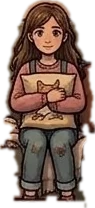
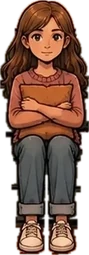
Emma sur le canapé (image ChatGPT découpée), table un peu plus en avant

diff --git a/piece.js b/piece.js
@@ -21,8 +21,8 @@ var ZONES_PIECE = [
   ["oRadio",     771, 192, 823, 234, function(){ return icone("radio"); }, "Radio", .5, function(){ return compter("radio") > 0; }],
   ["oTrophees",  172, 296, 232, 356, function(){ return "🏆"; }, "Trophées", .2, function(){ return G.trophees && G.trophees.length > 0; }],
   ["oPhoto",     247, 312, 285, 356, function(){ return icone("photo"); }, "Photo", .5, function(){ return compter("photo") > 0; }],
-  ["chapitre",   358, 633, 668, 746, function(){ return "📜"; }, "Histoire", .55], // le livre ouvert sur la table basse : le chapitre et le récit (l'atelier a sa propre pièce)
-  ["oCartes",    366, 641, 406, 669, function(){ return icone("cartes"); }, "Cartes", .5, function(){ return compter("cartes") > 0; }],
+  ["chapitre",   358, 648, 668, 781, function(){ return "📜"; }, "Histoire", .55], // le livre ouvert sur la table basse : le chapitre et le récit (l'atelier a sa propre pièce)
+  ["oCartes",    366, 676, 406, 704, function(){ return icone("cartes"); }, "Cartes", .5, function(){ return compter("cartes") > 0; }],
   ["chien",      668, 548, 858, 704, function(){ return ic("chien", "🐕"); }, "Rex", .95, function(){ return !!chien(); }]
 ];
 // Éléments posés sur la pièce selon la partie (images Gemini détourées, 2026-11-09), mêmes coordonnées que les zones
@@ -33,7 +33,7 @@ var DECOR_PIECE = [
   // Objets de confort : visibles seulement si on les a (les images de pièce n'en montrent plus)
   ["images/objet-radio.webp",  771, 192, 823, 234, function(){ return compter("radio") > 0; }],
   ["images/objet-photo.webp",  247, 312, 285, 356, function(){ return compter("photo") > 0; }],
-  ["images/objet-cartes.webp", 366, 641, 406, 669, function(){ return compter("cartes") > 0; }]
+  ["images/objet-cartes.webp", 366, 676, 406, 704, function(){ return compter("cartes") > 0; }]
 ];
 /* ---------- Les pièces de la maison, qu'on fait défiler (glisser du doigt, flèches ou points) ----------
    Chaque pièce : son image, sa taille, sa partie utile (cadre) et ses zones, en pixels de SON image. */
@@ -697,11 +697,12 @@ function dormeurLit(lit){
    (de gauche à droite : Papa, Léo, Emma, Maman). Chaque place est découpée à la silhouette, sans toucher aux coussins. */
 // Version 2 (2026-11-12) : deux images Gemini avec deux personnes espacées, silhouettes recalées chacune sur sa place ;
 // ordre de pose Léo, Papa, Emma, Maman (Papa devant le bras de Léo), puis la table basse et ses objets reposés devant eux
-// Salon sans table basse (2026-11-12, idée de Fabien) : la table est un décor reposé 60 px plus en avant et 5 % plus grande,
+// Salon sans table basse (2026-11-12, idée de Fabien) : la table est un décor reposé 95 px plus en avant et 5 % plus grande,
 // par-dessus les personnes, pour que leurs pieds restent visibles. Papa dans le fauteuil (bottes visibles), Léo et Maman
-// sur le canapé (image Gemini dessinée sur le salon sans table, sans décalage). Emma reviendra avec son image (3e place).
-var PLACES_CANAPE = { "Papa":[120, 352, 362, 717, "fauteuil-papa"], "Léo":[366, 343, 488, 628, "canape-leo"], "Maman":[578, 342, 705, 631, "canape-maman"] };
-var TABLE_SALON = ["images/personnages/table-basse-avant.webp", 348, 571, 671, 751, function(){ return true; }];
+// sur le canapé (image Gemini dessinée sur le salon sans table, sans décalage). Emma (3e place) : image ChatGPT
+// (salon redessiné), découpée le long de son contour et mise à l'échelle (255 px de haut).
+var PLACES_CANAPE = { "Papa":[120, 352, 362, 717, "fauteuil-papa"], "Léo":[366, 343, 488, 628, "canape-leo"], "Emma":[490, 375, 579, 630, "canape-emma"], "Maman":[578, 342, 705, 631, "canape-maman"] };
+var TABLE_SALON = ["images/personnages/table-basse-avant.webp", 348, 606, 671, 786, function(){ return true; }];
 function auSalon(r){
   if(!G || !G.m) return false;
   var i = G.m.findIndex(function(y){ return roleDormeur(y) === r; }), x = G.m[i];

diff --git a/site/piece.js b/site/piece.js
@@ -21,8 +21,8 @@ var ZONES_PIECE = [
   ["oRadio",     771, 192, 823, 234, function(){ return icone("radio"); }, "Radio", .5, function(){ return compter("radio") > 0; }],
   ["oTrophees",  172, 296, 232, 356, function(){ return "🏆"; }, "Trophées", .2, function(){ return G.trophees && G.trophees.length > 0; }],
   ["oPhoto",     247, 312, 285, 356, function(){ return icone("photo"); }, "Photo", .5, function(){ return compter("photo") > 0; }],
-  ["chapitre",   358, 633, 668, 746, function(){ return "📜"; }, "Histoire", .55], // le livre ouvert sur la table basse : le chapitre et le récit (l'atelier a sa propre pièce)
-  ["oCartes",    366, 641, 406, 669, function(){ return icone("cartes"); }, "Cartes", .5, function(){ return compter("cartes") > 0; }],
+  ["chapitre",   358, 648, 668, 781, function(){ return "📜"; }, "Histoire", .55], // le livre ouvert sur la table basse : le chapitre et le récit (l'atelier a sa propre pièce)
+  ["oCartes",    366, 676, 406, 704, function(){ return icone("cartes"); }, "Cartes", .5, function(){ return compter("cartes") > 0; }],
   ["chien",      668, 548, 858, 704, function(){ return ic("chien", "🐕"); }, "Rex", .95, function(){ return !!chien(); }]
 ];
 // Éléments posés sur la pièce selon la partie (images Gemini détourées, 2026-11-09), mêmes coordonnées que les zones
@@ -33,7 +33,7 @@ var DECOR_PIECE = [
   // Objets de confort : visibles seulement si on les a (les images de pièce n'en montrent plus)
   ["images/objet-radio.webp",  771, 192, 823, 234, function(){ return compter("radio") > 0; }],
   ["images/objet-photo.webp",  247, 312, 285, 356, function(){ return compter("photo") > 0; }],
-  ["images/objet-cartes.webp", 366, 641, 406, 669, function(){ return compter("cartes") > 0; }]
+  ["images/objet-cartes.webp", 366, 676, 406, 704, function(){ return compter("cartes") > 0; }]
 ];
 /* ---------- Les pièces de la maison, qu'on fait défiler (glisser du doigt, flèches ou points) ----------
    Chaque pièce : son image, sa taille, sa partie utile (cadre) et ses zones, en pixels de SON image. */
@@ -697,11 +697,12 @@ function dormeurLit(lit){
    (de gauche à droite : Papa, Léo, Emma, Maman). Chaque place est découpée à la silhouette, sans toucher aux coussins. */
 // Version 2 (2026-11-12) : deux images Gemini avec deux personnes espacées, silhouettes recalées chacune sur sa place ;
 // ordre de pose Léo, Papa, Emma, Maman (Papa devant le bras de Léo), puis la table basse et ses objets reposés devant eux
-// Salon sans table basse (2026-11-12, idée de Fabien) : la table est un décor reposé 60 px plus en avant et 5 % plus grande,
+// Salon sans table basse (2026-11-12, idée de Fabien) : la table est un décor reposé 95 px plus en avant et 5 % plus grande,
 // par-dessus les personnes, pour que leurs pieds restent visibles. Papa dans le fauteuil (bottes visibles), Léo et Maman
-// sur le canapé (image Gemini dessinée sur le salon sans table, sans décalage). Emma reviendra avec son image (3e place).
-var PLACES_CANAPE = { "Papa":[120, 352, 362, 717, "fauteuil-papa"], "Léo":[366, 343, 488, 628, "canape-leo"], "Maman":[578, 342, 705, 631, "canape-maman"] };
-var TABLE_SALON = ["images/personnages/table-basse-avant.webp", 348, 571, 671, 751, function(){ return true; }];
+// sur le canapé (image Gemini dessinée sur le salon sans table, sans décalage). Emma (3e place) : image ChatGPT
+// (salon redessiné), découpée le long de son contour et mise à l'échelle (255 px de haut).
+var PLACES_CANAPE = { "Papa":[120, 352, 362, 717, "fauteuil-papa"], "Léo":[366, 343, 488, 628, "canape-leo"], "Emma":[490, 375, 579, 630, "canape-emma"], "Maman":[578, 342, 705, 631, "canape-maman"] };
+var TABLE_SALON = ["images/personnages/table-basse-avant.webp", 348, 606, 671, 786, function(){ return true; }];
 function auSalon(r){
   if(!G || !G.m) return false;
   var i = G.m.findIndex(function(y){ return roleDormeur(y) === r; }), x = G.m[i];

diff --git a/site/sw.js b/site/sw.js
@@ -4,7 +4,7 @@
    IMPORTANT : à chaque mise à jour du jeu, changer VERSION (sinon les
    téléphones garderaient l'ancienne copie).
    ===================================================================== */
-var VERSION = "survival-20261112-0948";
+var VERSION = "survival-20261112-0958";
 var FICHIERS = [
   "./",
   "index.html",

diff --git a/CLAUDE.md b/CLAUDE.md
@@ -389,6 +389,7 @@ Canapé version 2 (2026-11-12, retour de Fabien : la 1re découpe gardait un bou
 Salon version 3 (2026-11-12, retour de Fabien : pieds et bas des jambes manquants) : Papa est maintenant dans le FAUTEUIL (3e image Gemini `images/sources/fauteuil-papa-gemini.jpg`, bottes visibles ; `images/personnages/fauteuil-papa.webp`, avec le fauteuil redessiné sans plaid). Léo reste à sa place d'origine (plus de décalage), Emma et Maman restent recalées ; les bas de jambes sont récupérés (zone des jambes avec un seuil plus bas, le jean ressemblant au canapé) jusqu'au bord de la table ; leurs pieds restent derrière la table, comme dans la pièce. `PLACES_CANAPE` donne maintenant le nom complet du fichier ; la table n'est reposée que si quelqu'un est sur le canapé
 Salon sans table basse (2026-11-12, idée de Fabien) : Gemini a retiré la table (`images/sources/salon-sans-table-gemini.jpg`, rien d'autre n'a bougé) ; `images/refuge-fond-sans-table.webp` = l'original partout sauf la zone de la table ; `images/personnages/table-basse.webp` = la table et ses objets découpés exactement (différence avec / sans table), à reposer environ 60 px plus en avant et 5 % plus grande (aperçu validé par Claude). PAS ENCORE BRANCHÉ : on attend les images 2 (Léo + Maman) et 3 (Emma) dessinées sur ce salon sans table (prompts « Salon version 4 » dans `images/sources/prompts-gemini-2026-11-12.md`). En attendant, Léo, Emma et Maman ne s'assoient plus sur le canapé (pieds manquants) ; seul Papa est affiché, dans le fauteuil. Au branchement : base du salon = sans table, table en décor après les personnes, déplacer aussi la zone « table basse » et le décor des cartes à jouer
 Salon version 4 branchée (2026-11-12) : image Gemini de Léo + Maman dessinés sur le salon sans table (`images/sources/sans-table-leo-maman-gemini.jpg`, découpés par différence avec le salon sans table, sans décalage, pieds compris) → `images/personnages/canape-leo|maman.webp`. Base du salon = `images/refuge-fond-sans-table.webp` ; la table (`images/personnages/table-basse-avant.webp`, ×1,05) est posée 60 px plus en avant (`TABLE_SALON`, après les personnes, avant Rex et les cartes) ; zone « Histoire » et cartes à jouer déplacées avec elle. `PLACES_CANAPE` : Papa (fauteuil), Léo, Maman. Emma attend son image (3e place, prompt « Image 3 » de la version 4)
+Emma sur le canapé (2026-11-12, image ChatGPT : `images/sources/emma-canape-chatgpt.webp`, salon entièrement redessiné donc pas de découpe par différence) : découpée le long de son contour noir (seuil < 36, limite tracée à la main, fond rempli depuis l'extérieur, ouverture 7 px pour retirer les traits du canapé), ramenée à 255 px de haut → `images/personnages/canape-emma.webp` (490, 375, 579, 630). Pour voir ses pieds derrière la lanterne, la table est maintenant 95 px plus en avant (`TABLE_SALON` 348, 606, 671, 786) ; sur PC on n'en voit que le plateau. Zone « Histoire » et cartes déplacées avec elle
 Décor des assauts : la cour fortifiée (`piece-bastion-cour.webp`) sert de fond au combat pendant un assaut (ui.js, `openCombat`).
 Bilan de difficulté (2026-11-10, simulation après tous les ajouts) : Malin vit 85 jours (médiane, 10 % ≤ 68, 90 % ≤ 104, max 122), 96 % atteignent le jour 60, 79 % le jour 75, seulement 16 % le jour 100 ; Naïf 10 jours (1re mort au jour 5). Causes de mort de Malin : attaques de nuit, puis soif, puis faim. Assauts (2 membres, robot Auto, 200 essais) : bastion faible = 100 % de victoires ; remparts 5 + armurerie 3 + cible au jour 200 = 0 % (7 % avec gilets, casques, boucliers et camion au maximum) : courbe trop raide, à lisser. Jour d'accès aux clans : 100 jugé trop long.
 Réglages du 2026-11-10 (choix de Fabien : 30 jours) :
